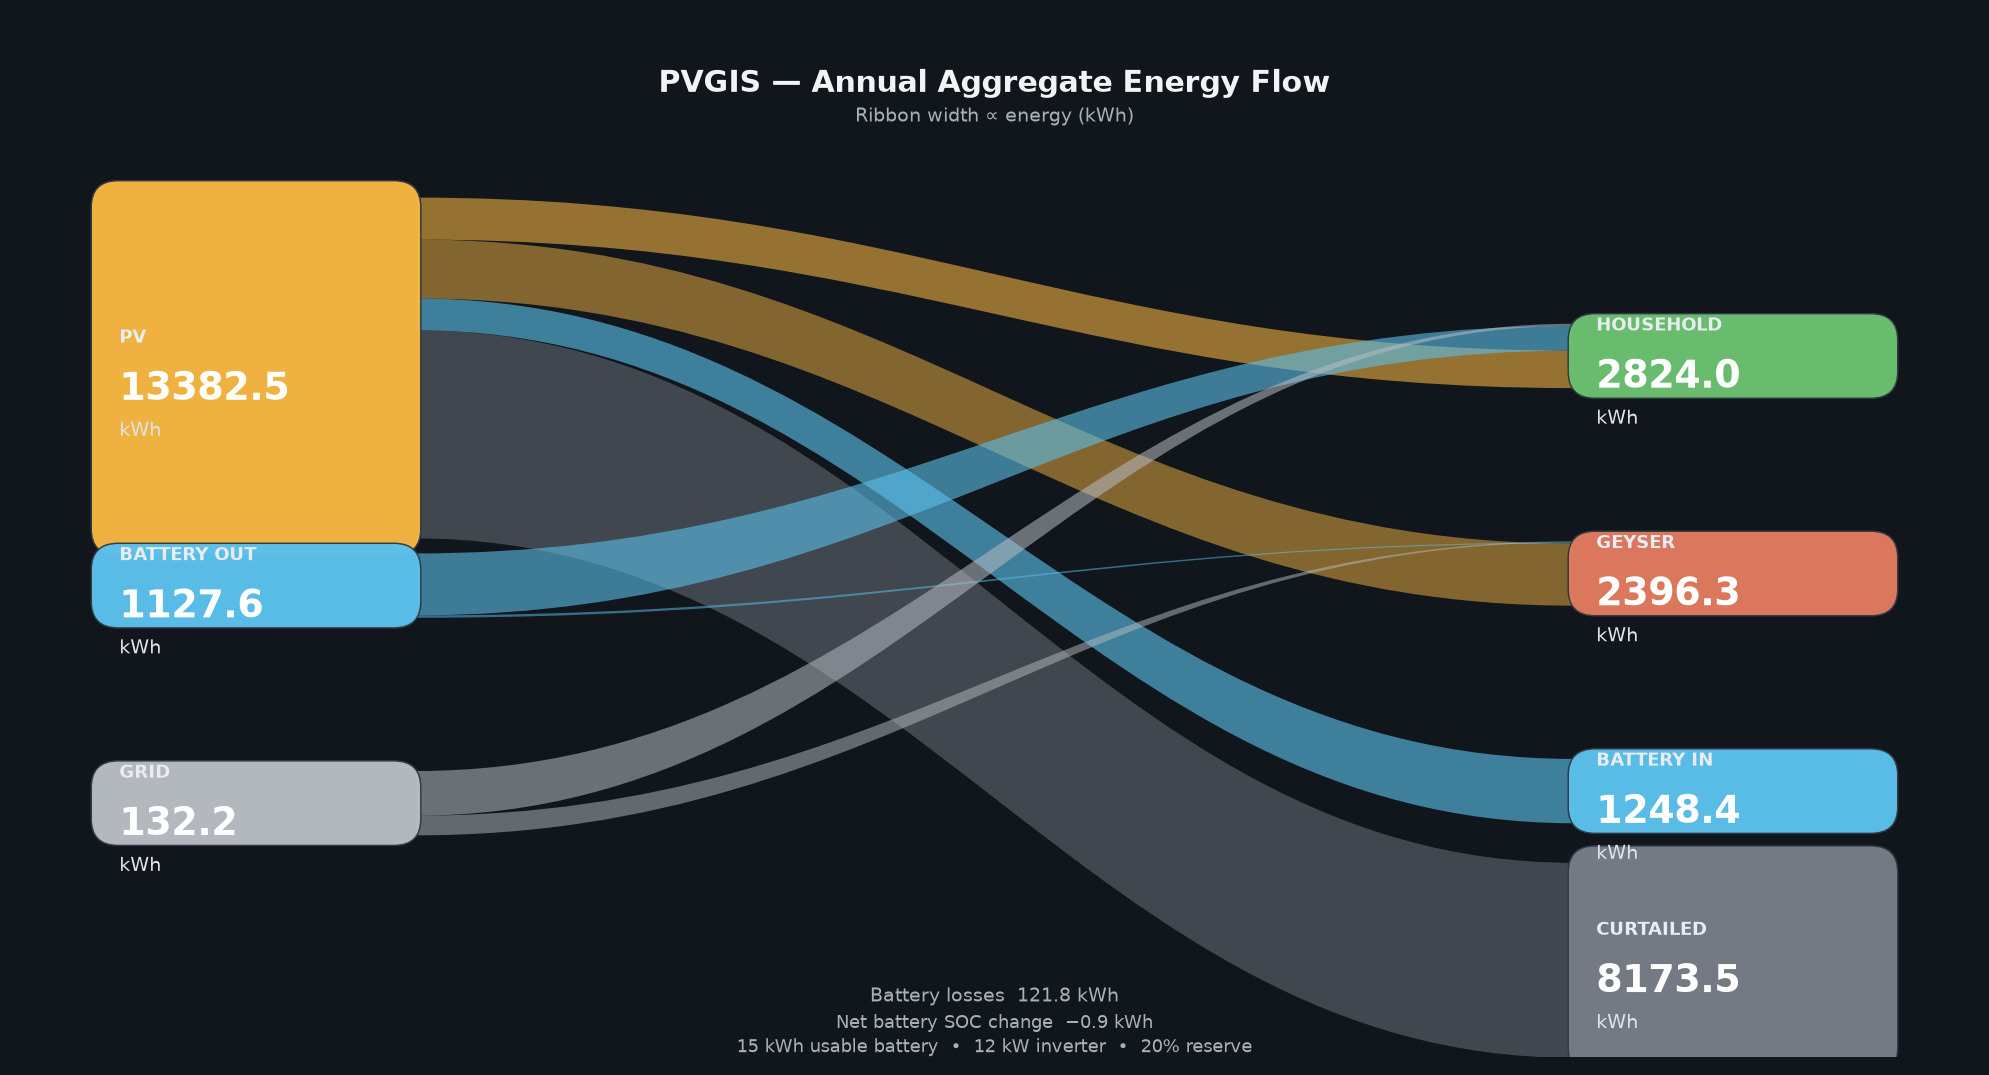
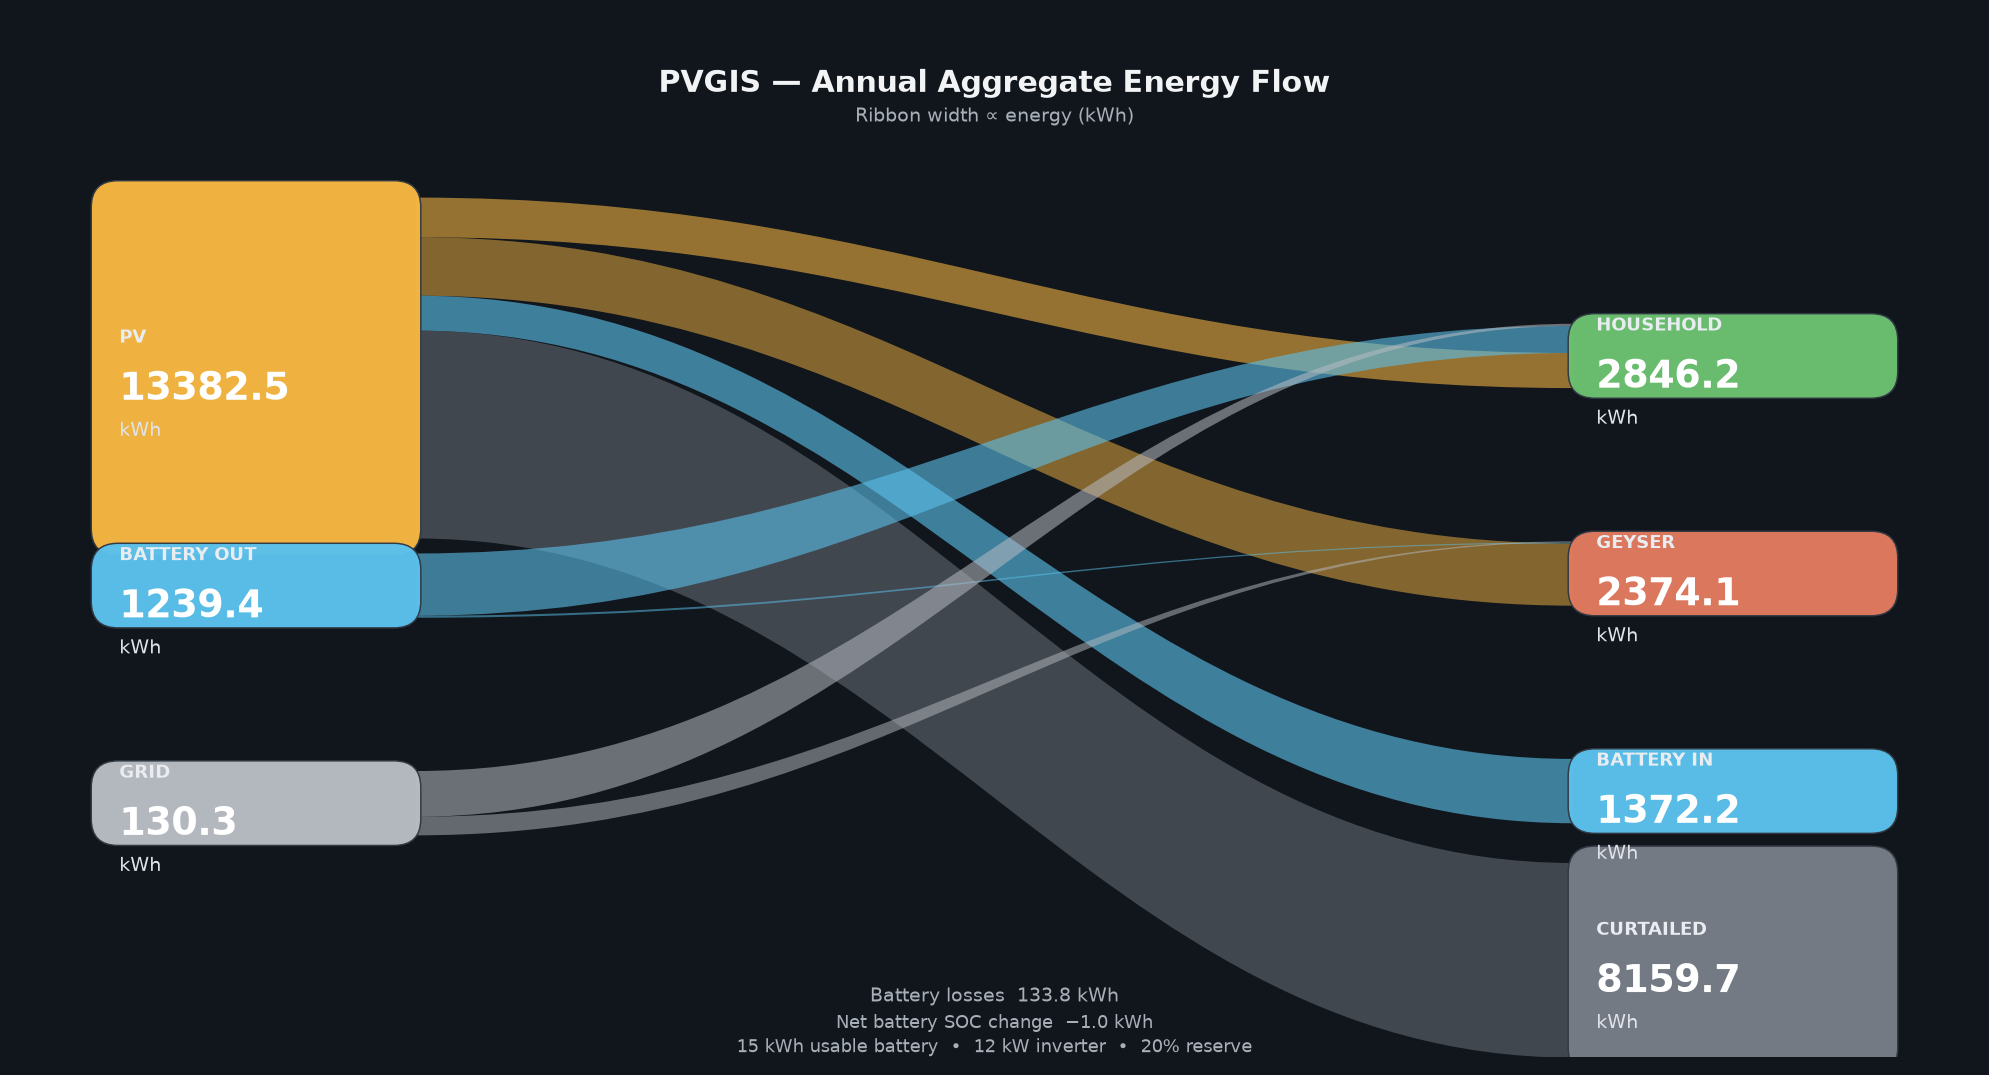
Fix error in outage projection code

diff --git a/solar_outage_simulation.py b/solar_outage_simulation.py
@@ -57,9 +57,9 @@ def parse_args():
                    help="PVGIS simulation script containing the shared model")
     p.add_argument("--pv-cache", default=None)
     p.add_argument("--output-dir", default="solar report/outage simulation")
-    p.add_argument("--battery-kwh", type=float, default=15.0)
-    p.add_argument("--reserve", type=float, default=0.20)
-    p.add_argument("--inverter-kw", type=float, default=8.0)
+    p.add_argument("--battery-kwh", type=float, default=None)
+    p.add_argument("--reserve", type=float, default=None)
+    p.add_argument("--inverter-kw", type=float, default=None)
     p.add_argument("--geyser-max-kw", type=float, default=3.0)
     p.add_argument(
         "--start-soc-mode",
@@ -88,12 +88,12 @@ def load_model(path):
     return mod
 
 
-def build_pv(mod, year, cache, no_download):
+def build_pv(mod, year, cache, no_download, solar):
     east_data, _, _ = mod.fetch_pvgis(
-        mod.EAST_KWP, -90, year, cache, no_download
+        solar["east_kwp"], -90, year, cache, no_download
     )
     west_data, _, _ = mod.fetch_pvgis(
-        mod.WEST_KWP, 90, year, cache, no_download
+        solar["west_kwp"], 90, year, cache, no_download
     )
 
     east = mod.pvgis_hourly(east_data)
@@ -105,21 +105,16 @@ def build_pv(mod, year, cache, no_download):
 
     return pv
 
-
 def build_scaled_load(mod, load_profile, projection, day):
     """
-    Retain the measured hourly shape while scaling the two load components
-    independently to the projected energy for this calendar day.
+    Scale the normalised hourly non-geyser profile to the projected
+    daily energy, retaining the projected geyser energy.
     """
     projected = projection[(day.month, day.day)]
 
-    non_geyser_scale = (
-        projected["non_geyser_kwh"] /
-        load_profile["non_geyser_kwh"]
-    )
-
     non_geyser = {
-        h: load_profile["hourly_non_geyser"].get(h, 0.0) * non_geyser_scale
+        h: projected["non_geyser_kwh"]
+        * load_profile["non_geyser_fraction"].get(h, 0.0)
         for h in range(24)
     }
 
@@ -331,20 +326,43 @@ def main():
 
     mod = load_model(script)
 
-    pv = build_pv(mod, args.year, cache, args.no_download)
-    load_profile = mod.load_complete_measured_day(db)
+    config = mod.load_config()
+    solar = mod.load_solar_defaults(config)
+    # Use config.ini values unless explicitly overridden on the command line.
+    if args.inverter_kw is None:
+        args.inverter_kw = solar["inverter_kw"]
+
+    if args.battery_kwh is None:
+        args.battery_kwh = solar["battery_kwh"]
+
+    if args.reserve is None:
+        args.reserve = solar["reserve_frac"]
+
+    pv = build_pv(mod, args.year, cache, args.no_download, solar)
+    load_profile = mod.load_hourly_shape(db)
     projection = mod.load_daily_projection(db)
 
     print("=" * 72)
     print("Solar Step 6 — grid-outage resilience simulation")
     print("=" * 72)
     print(f"PVGIS year:                 {args.year}")
-    print("PV:                         7.00 kWp (3.5 east + 3.5 west)")
+    print(
+    f"PV:                         "
+    f"{solar['east_kwp'] + solar['west_kwp']:.2f} kWp "
+    f"({solar['east_kwp']:.2f} east + "
+    f"{solar['west_kwp']:.2f} west)")
     print(f"Inverter reference:         {args.inverter_kw:.2f} kW")
     print(f"Battery usable:             {args.battery_kwh:.2f} kWh")
     print(f"Battery reserve:            {args.reserve * 100:.1f}%")
     print("Load model:                 daily_load_projection")
-    print(f"Measured hourly shape:      {load_profile['date']}")
+    print(
+    f"Measured hourly shape:      "
+    f"{load_profile['complete_days']} complete days"
+        )
+    print(
+        f"Average non-geyser load:    "
+        f"{load_profile['average_non_geyser_kwh']:.3f} kWh/day"
+    )
     print("Outage geyser strategy:     excess PV only after battery is full")
     if args.start_soc_mode == "full":
         print("Outage starting SOC:         100% (full battery)")
